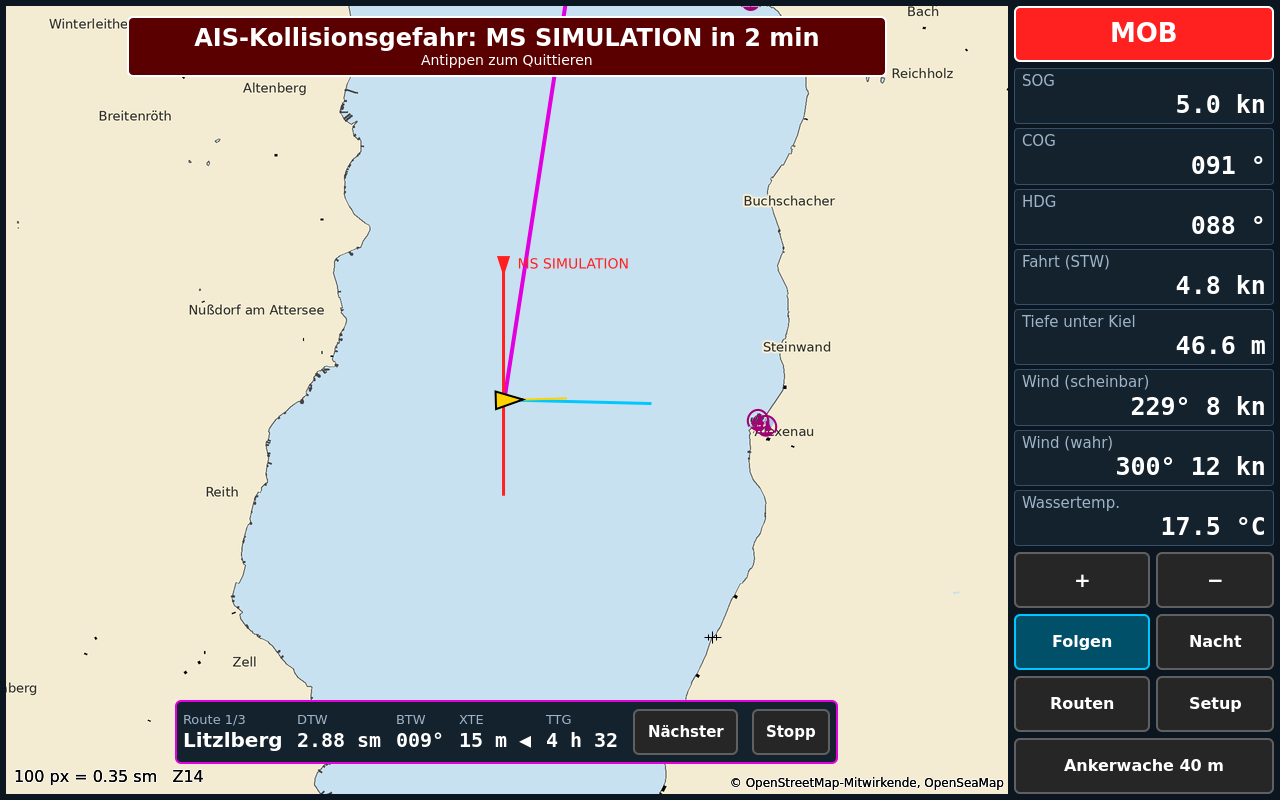
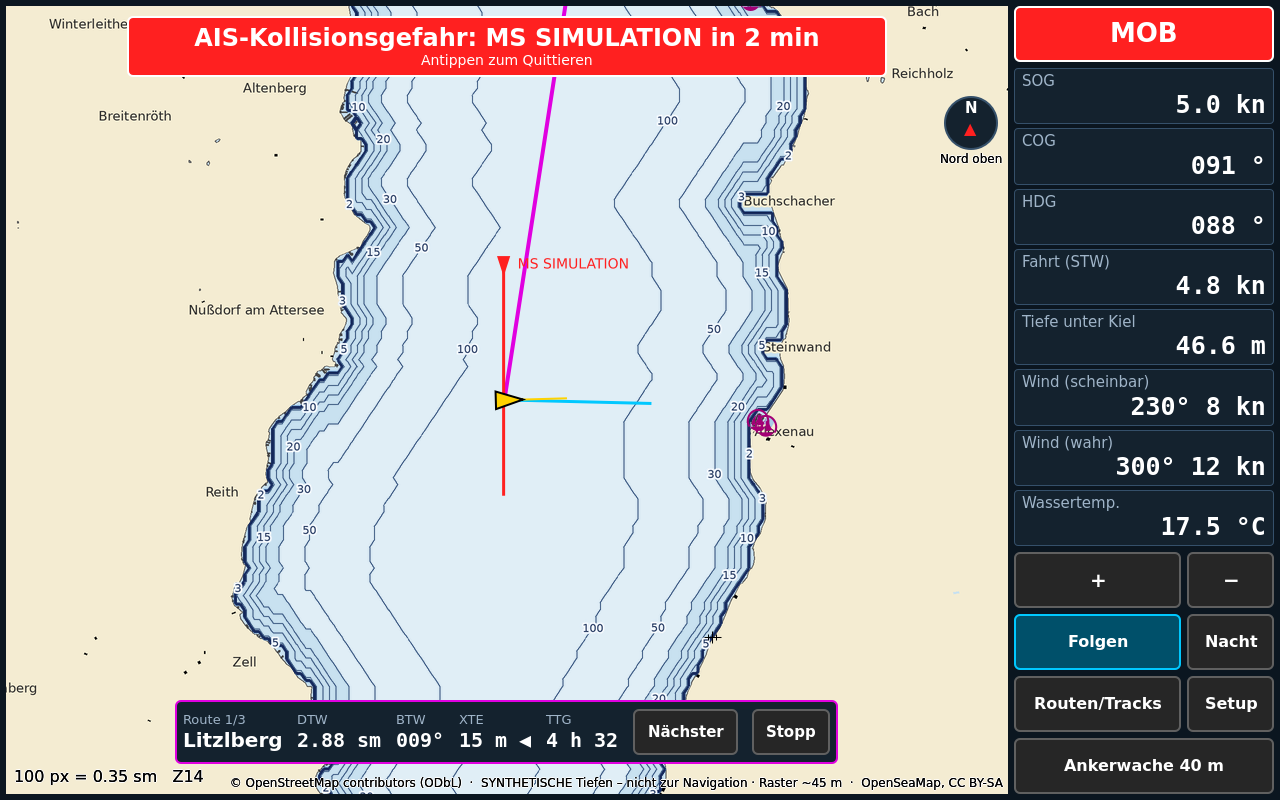
Equal button columns in the side panel; screenshots with depth contours and course-up

diff --git a/src/app/qml/Main.qml b/src/app/qml/Main.qml
@@ -187,34 +187,34 @@ Window {
 
             GridLayout {
                 columns: 2
-                Layout.fillWidth: true
+                Layout.fillWidth: true; Layout.preferredWidth: 100  /* equal columns */
                 columnSpacing: 6
                 rowSpacing: 6
-                TouchButton { Layout.fillWidth: true; text: "+"; onClicked: chartView.setZoom(chartView.zoom + 1) }
-                TouchButton { Layout.fillWidth: true; text: "−"; onClicked: chartView.setZoom(chartView.zoom - 1) }
+                TouchButton { Layout.fillWidth: true; Layout.preferredWidth: 100  /* equal columns */; text: "+"; onClicked: chartView.setZoom(chartView.zoom + 1) }
+                TouchButton { Layout.fillWidth: true; Layout.preferredWidth: 100  /* equal columns */; text: "−"; onClicked: chartView.setZoom(chartView.zoom - 1) }
                 TouchButton {
-                    Layout.fillWidth: true
+                    Layout.fillWidth: true; Layout.preferredWidth: 100  /* equal columns */
                     text: "Folgen"
                     fontSize: 16
                     checked: chartView.follow
                     onClicked: { chartView.follow = true; chartView.recentre(); }
                 }
                 TouchButton {
-                    Layout.fillWidth: true
+                    Layout.fillWidth: true; Layout.preferredWidth: 100  /* equal columns */
                     text: "Nacht"
                     fontSize: 16
                     checked: Theme.night
                     onClicked: Theme.night = !Theme.night
                 }
                 TouchButton {
-                    Layout.fillWidth: true
+                    Layout.fillWidth: true; Layout.preferredWidth: 100  /* equal columns */
                     fontSize: 16
                     text: "Routen/Tracks"
                     checked: navPage.visible
                     onClicked: { settingsPage.visible = false; navPage.visible = !navPage.visible; }
                 }
                 TouchButton {
-                    Layout.fillWidth: true
+                    Layout.fillWidth: true; Layout.preferredWidth: 100  /* equal columns */
                     fontSize: 16
                     text: "Setup"
                     checked: settingsPage.visible
@@ -222,7 +222,7 @@ Window {
                 }
                 TouchButton {
                     Layout.columnSpan: 2
-                    Layout.fillWidth: true
+                    Layout.fillWidth: true; Layout.preferredWidth: 100  /* equal columns */
                     fontSize: 16
                     checked: boat.anchorActive
                     text: boat.anchorActive ? "Anker auf (halten) " + boat.anchorDistance.toFixed(0) + "/" + boat.anchorRadius.toFixed(0) + " m"

diff --git a/README.md b/README.md
@@ -17,12 +17,17 @@ funktional angelehnt an Geräte wie den Garmin GPSMAP 9000xsv. Schwesterprojekt 
 ![OpenBoat – Nachtmodus](docs/screenshots/night.png)
 </details>
 
+<details><summary>Kurs oben</summary>
+
+![OpenBoat – Kurs oben](docs/screenshots/courseup.png)
+</details>
+
 <details><summary>Einstellungen</summary>
 
 ![OpenBoat – Einstellungen](docs/screenshots/settings.png)
 </details>
 
-Simulator mit Demo-Route (`--demo`), Grundkarte aus OpenStreetMap (`tools/make_basemap.py`) und OpenSeaMap-Seezeichen. Die Screenshots erzeugt die CI bei jedem Lauf (Artefakt „screenshots“).
+Simulator mit Demo-Route (`--demo`), Grundkarte aus OpenStreetMap (`tools/make_basemap.py`), OpenSeaMap-Seezeichen und **synthetischen** Tiefenlinien (nur Demo, keine echten Tiefen des Attersees). Die Screenshots erzeugt die CI bei jedem Lauf (Artefakt „screenshots“).
 
 ## Vorbild und Stand
 
